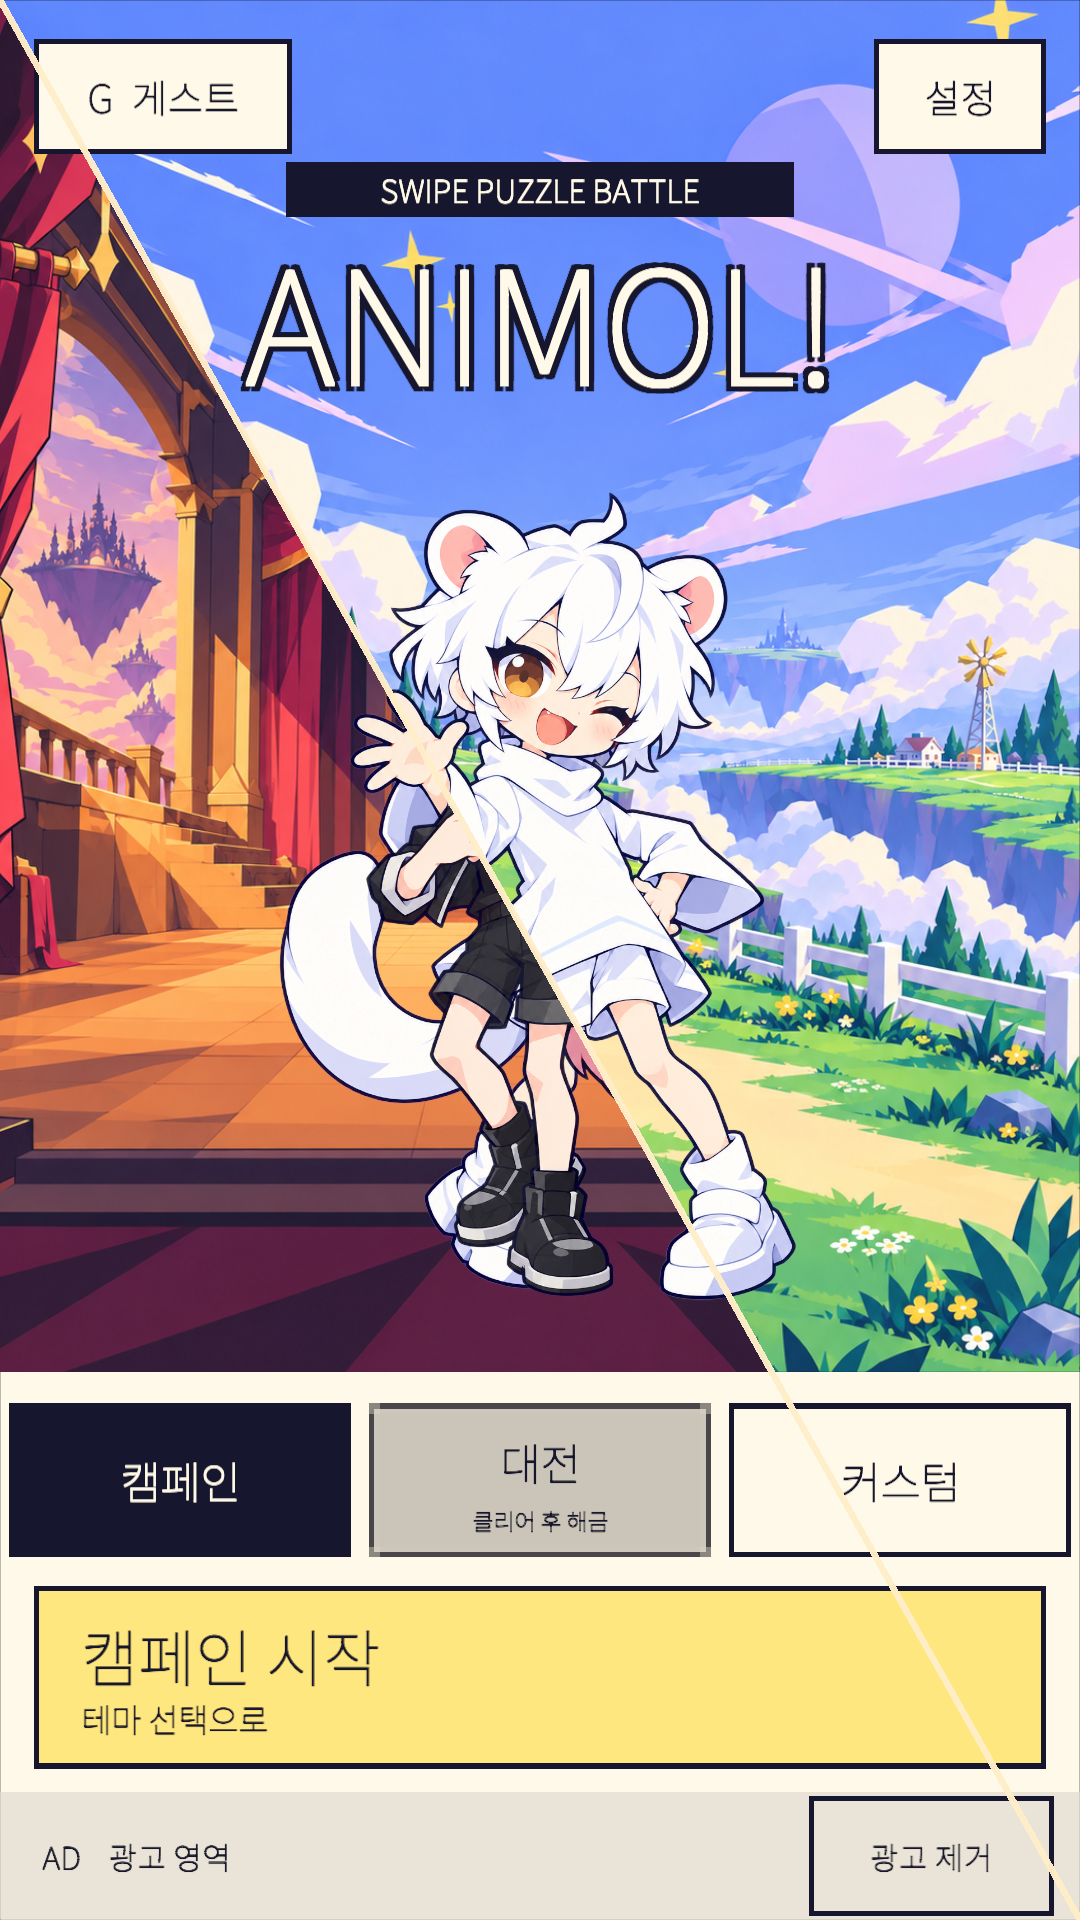
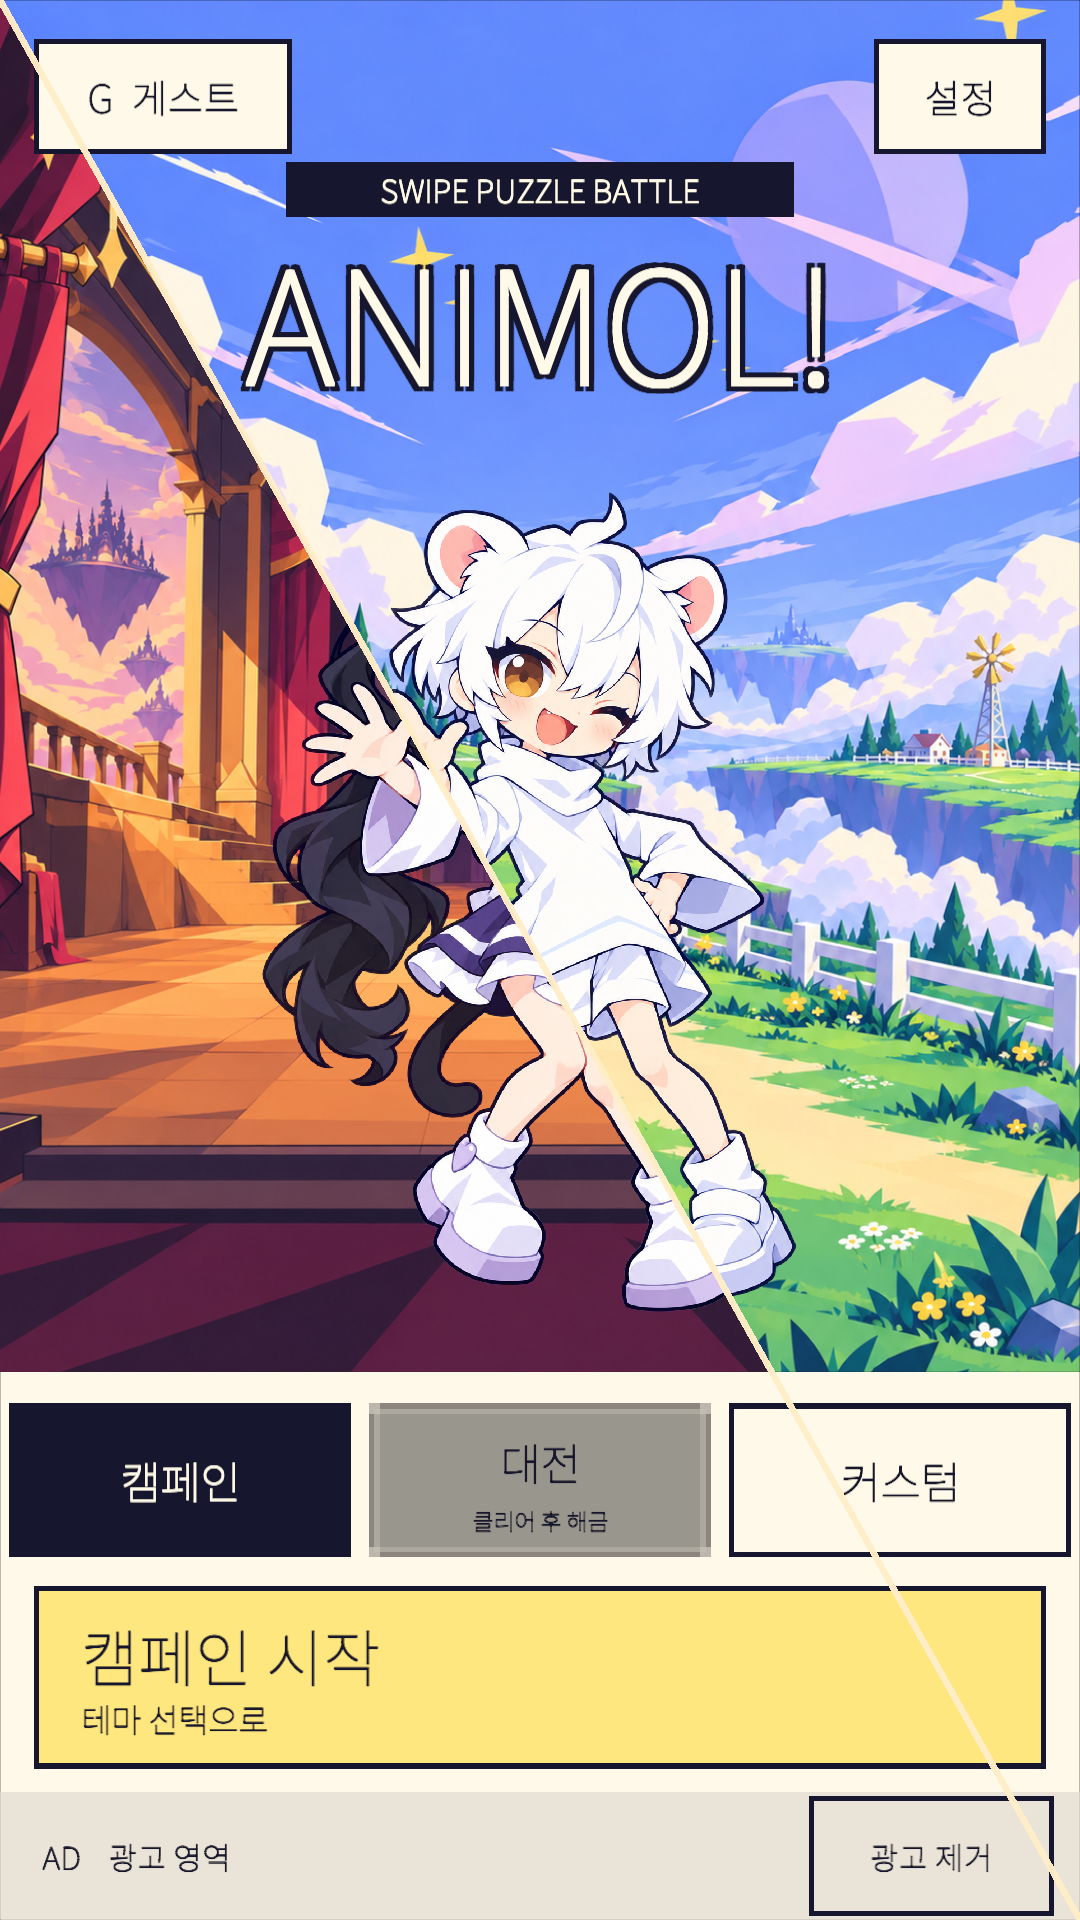
Align lobby characters with diagonal wipe
Mask the outgoing hero on the opposite side of the shared screen-space seam and size each illustration independently. Refresh the visual capture and transition assertions.

Validation: Unity compile passed; targeted MainLobby PlayMode 1/1 passed with fast Play Mode temporarily disabled and restored. MainLobbyArtTests 3/4: existing choa.png Point importer setting fails the Bilinear assertion.

diff --git a/Assets/ANIMOL/Scripts/Runtime/MainLobbyController.cs b/Assets/ANIMOL/Scripts/Runtime/MainLobbyController.cs
@@ -75,6 +75,8 @@ namespace ANIMOL.Menu
         int campaignTheme;
         string mode = "campaign";
         Material activeRevealMaterial;
+        Material activeHideMaterial;
+        Material defaultHeroMaterial;
 
         public int CurrentThemeIndex { get; private set; } = -1;
         public string CurrentCharacterId { get; private set; }
@@ -125,7 +127,11 @@ namespace ANIMOL.Menu
             variants.Add(new ShaderVariantCollection.ShaderVariant(diagonalRevealMaterial.shader, PassType.Normal));
             variants.Add(new ShaderVariantCollection.ShaderVariant(diagonalRevealMaterial.shader, PassType.Normal, "UNITY_UI_CLIP_RECT"));
             variants.WarmUp();
+            defaultHeroMaterial = heroImage.material;
             activeRevealMaterial = new Material(diagonalRevealMaterial) { name = "Main Lobby Diagonal Reveal (Runtime)" };
+            activeRevealMaterial.SetFloat("_Invert", 0);
+            activeHideMaterial = new Material(diagonalRevealMaterial) { name = "Main Lobby Diagonal Hide (Runtime)" };
+            activeHideMaterial.SetFloat("_Invert", 1);
             backgroundTransitionImage.material = activeRevealMaterial;
             heroTransitionImage.material = activeRevealMaterial;
             HideTransition();
@@ -134,6 +140,7 @@ namespace ANIMOL.Menu
         void OnDestroy()
         {
             if (activeRevealMaterial) Destroy(activeRevealMaterial);
+            if (activeHideMaterial) Destroy(activeHideMaterial);
         }
 
         void Start()
@@ -243,6 +250,7 @@ namespace ANIMOL.Menu
             transitionTime = 0;
             transitioning = true;
             SetRevealProgress(0);
+            heroImage.material = activeHideMaterial;
             backgroundTransitionImage.gameObject.SetActive(true);
             heroTransitionImage.gameObject.SetActive(true);
             RefreshDiagonalLine();
@@ -253,10 +261,12 @@ namespace ANIMOL.Menu
         void SetRevealProgress(float progress)
         {
             activeRevealMaterial.SetFloat("_Progress", progress);
+            activeHideMaterial.SetFloat("_Progress", progress);
         }
 
         void HideTransition()
         {
+            if (heroImage && heroImage.material == activeHideMaterial) heroImage.material = defaultHeroMaterial;
             if (backgroundTransitionImage) backgroundTransitionImage.gameObject.SetActive(false);
             if (heroTransitionImage) heroTransitionImage.gameObject.SetActive(false);
             if (diagonalLineImage) diagonalLineImage.gameObject.SetActive(false);
@@ -353,15 +363,17 @@ namespace ANIMOL.Menu
             logoRect.GetWorldCorners(corners);
             var logoBottom = artArea.InverseTransformPoint(corners[0]).y;
             var available = logoBottom - artArea.rect.yMin - 18f - 20f;
-            var sprite = heroImage.sprite.rect.size;
+            FitIllustration(heroRect, heroImage.sprite, available);
+            if (heroTransitionRect && heroTransitionImage.sprite)
+                FitIllustration(heroTransitionRect, heroTransitionImage.sprite, available);
+        }
+
+        void FitIllustration(RectTransform target, Sprite illustration, float available)
+        {
+            var sprite = illustration.rect.size;
             var height = Mathf.Max(1, Mathf.Min(available, artArea.rect.width * .82f * sprite.y / sprite.x));
-            heroRect.sizeDelta = new Vector2(height * sprite.x / sprite.y, height);
-            heroRect.anchoredPosition = new Vector2(0, 20);
-            if (heroTransitionRect)
-            {
-                heroTransitionRect.sizeDelta = heroRect.sizeDelta;
-                heroTransitionRect.anchoredPosition = heroRect.anchoredPosition;
-            }
+            target.sizeDelta = new Vector2(height * sprite.x / sprite.y, height);
+            target.anchoredPosition = new Vector2(0, 20);
         }
 
         void FitCampaignCards()

diff --git a/Assets/ANIMOL/Scripts/Tests/PlayMode/MainLobbyPlayTests.cs b/Assets/ANIMOL/Scripts/Tests/PlayMode/MainLobbyPlayTests.cs
@@ -211,6 +211,7 @@ namespace ANIMOL.Menu.Tests
                 var previousTheme = lobby.CurrentThemeIndex;
                 var previousArt = lobby.CurrentArtId;
                 var oldHero = lobby.heroImage.sprite;
+                var oldHeroMaterial = lobby.heroImage.material;
                 lobby.AdvanceAppearance(MainLobbyController.AppearanceInterval - lobby.AppearanceElapsed - .01f);
                 Assert.That(lobby.CurrentThemeIndex, Is.EqualTo(previousTheme));
                 Assert.That(lobby.CurrentArtId, Is.EqualTo(previousArt));
@@ -230,6 +231,14 @@ namespace ANIMOL.Menu.Tests
                 Assert.That(lobby.heroTransitionImage.material, Is.SameAs(lobby.backgroundTransitionImage.material));
                 Assert.That(lobby.heroTransitionImage.material.shader.name, Is.EqualTo("ANIMOL/UI/Main Lobby Diagonal Reveal"));
                 Assert.That(lobby.heroTransitionImage.material.GetFloat("_Progress"), Is.EqualTo(.5f).Within(.01f));
+                Assert.That(lobby.heroImage.material.shader.name, Is.EqualTo("ANIMOL/UI/Main Lobby Diagonal Reveal"));
+                Assert.That(lobby.heroImage.material.GetFloat("_Invert"), Is.EqualTo(1f));
+                Assert.That(lobby.heroImage.material.GetFloat("_Progress"), Is.EqualTo(.5f).Within(.01f),
+                    "the outgoing character must be cut by the same moving diagonal");
+                Assert.That(lobby.heroTransitionImage.material.GetFloat("_Invert"), Is.Zero);
+                Assert.That(lobby.heroTransitionRect.rect.width / lobby.heroTransitionRect.rect.height,
+                    Is.EqualTo(lobby.heroTransitionImage.sprite.rect.width /
+                        lobby.heroTransitionImage.sprite.rect.height).Within(.001f));
                 Assert.That(lobby.heroTransitionImage.mainTexture, Is.SameAs(lobby.heroTransitionImage.sprite.texture));
                 Assert.That(lobby.backgroundTransitionImage.mainTexture, Is.SameAs(lobby.backgroundTransitionImage.sprite.texture));
                 Assert.That(lobby.diagonalLineImage.gameObject.activeSelf, Is.True);
@@ -261,6 +270,9 @@ namespace ANIMOL.Menu.Tests
                 Assert.That(lobby.IsAppearanceTransitioning, Is.False);
                 Assert.That(lobby.diagonalLineImage.gameObject.activeSelf, Is.False);
                 Assert.That(lobby.heroImage.sprite, Is.SameAs(lobby.heroTransitionImage.sprite));
+                Assert.That(lobby.heroImage.material, Is.SameAs(oldHeroMaterial));
+                Assert.That(lobby.heroRect.rect.width, Is.EqualTo(lobby.heroTransitionRect.rect.width).Within(.01f));
+                Assert.That(lobby.heroRect.rect.height, Is.EqualTo(lobby.heroTransitionRect.rect.height).Within(.01f));
                 Assert.That(lobby.backgroundImage.sprite, Is.SameAs(lobby.backgroundTransitionImage.sprite));
                 themes.Add(lobby.CurrentThemeIndex);
             }

diff --git a/Docs/ANIMOL_MAIN_UI_V7_APPLY_RESULT.md b/Docs/ANIMOL_MAIN_UI_V7_APPLY_RESULT.md
@@ -37,6 +37,11 @@
 - 연결된 Unity 6000.3.8f1 Editor에서 컴파일 오류 0, 셰이더 오류 0을 확인했다. [로비 PlayMode 5/5](Validation/MainUiV7/PlayMode-diagonal.json)에서 5초 주기, 네 테마 순환, 새/이전 Sprite 참조, 불투명 Image와 동일한 진행값, 중간선 길이, 팝업 중 정지, PC 창 크기 변경 뒤 선의 화면 폭 적응, 모션 줄이기 즉시 종료, 실제 `Update` 경로를 확인했다. [1080×1920 실제 전환 캡처](Validation/MainUiV7/Portrait/diagonal_wipe.png)에서는 대각선 양쪽에 서로 다른 테마와 캐릭터가 분리되어 보이고 선이 하단 메뉴까지 이어진다. `MainLobbyArtTests` 4/4, `ArtAssetTests` 4/4, `ArtQaPlayTests` 1/1도 통과했다.
 - [Android APK 빌드](Validation/MainUiV7/Android-diagonal-build.json)는 최종 씬과 코드로 성공했다. APK는 임시 경로 `%TEMP%/ANIMOL_Main_UI_diagonal.apk`에 138,781,261바이트로 생성됐으며 빌드 오류 0, 기존 Pipeline Runtime 설정과 진단 심볼 관련 경고 2개다. Unity 설치 SDK의 `adb devices`에는 연결 기기가 없어 실기기 화면·터치·Safe Area·DPI와 실제 Android 전환 프레임은 미검증이다. 레거시 `CommercialPolishPolicyTests`는 격리된 보관본이므로 활성 테스트로 실행하지 않았다.
 
+### 2026-10-18 캐릭터 경계 보정
+
+- 기존 구현은 새 배경과 새 캐릭터만 대각선으로 드러내고 이전 캐릭터는 끝까지 전체를 그려, 경계 부근에서 두 인물이 겹쳤다. 이제 이전 캐릭터에도 같은 화면 좌표 경계의 반대쪽 마스크를 적용하고 새 캐릭터의 사각형은 해당 그림의 비율로 계산한다. 전환 완료 시 일반 머티리얼로 복귀한다. [중간 프레임 캡처](Validation/MainUiV7/Portrait/diagonal_wipe.png)를 갱신했다.
+- Unity 6000.3.8f1에서 컴파일 오류 0, 로비 대각선 전환 PlayMode 테스트 1/1 통과. 테스트 러너는 프로젝트의 빠른 Play Mode 설정에서 준비 단계 예외가 나서 해당 설정을 임시로 끄고 실행했으며, 끝난 뒤 원래 `DisableDomainReload` 값으로 복원했다. `MainLobbyArtTests`는 3/4 통과했고, 남은 1개는 이번 변경과 무관한 기존 `choa.png` 임포트 설정이 테스트 기대값 Bilinear 대신 Point인 문제다.
+
 ## 남은 연결
 
 정식 스테이지 카탈로그·완료 저장 소스와 캠페인 라우팅이 추가되면 `MainMenuCatalog.requiredStageIds`와 `MainLobbyController.requiredStageProgress`를 실제 정책에 연결해야 한다. 대전·커스텀·광고 제거는 각각 서버/구매 SDK 계약이 생기기 전까지 완료로 표시하지 않는다. 현재 APK는 로비 화면과 안전한 미연결 상태를 검수한 결과물이다.
